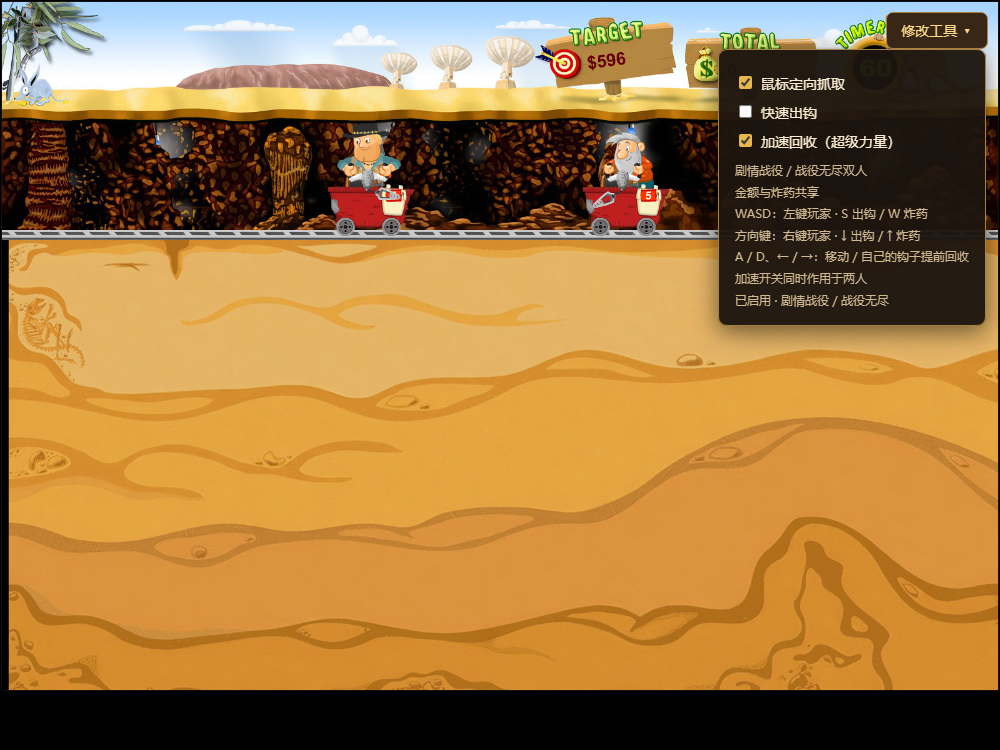
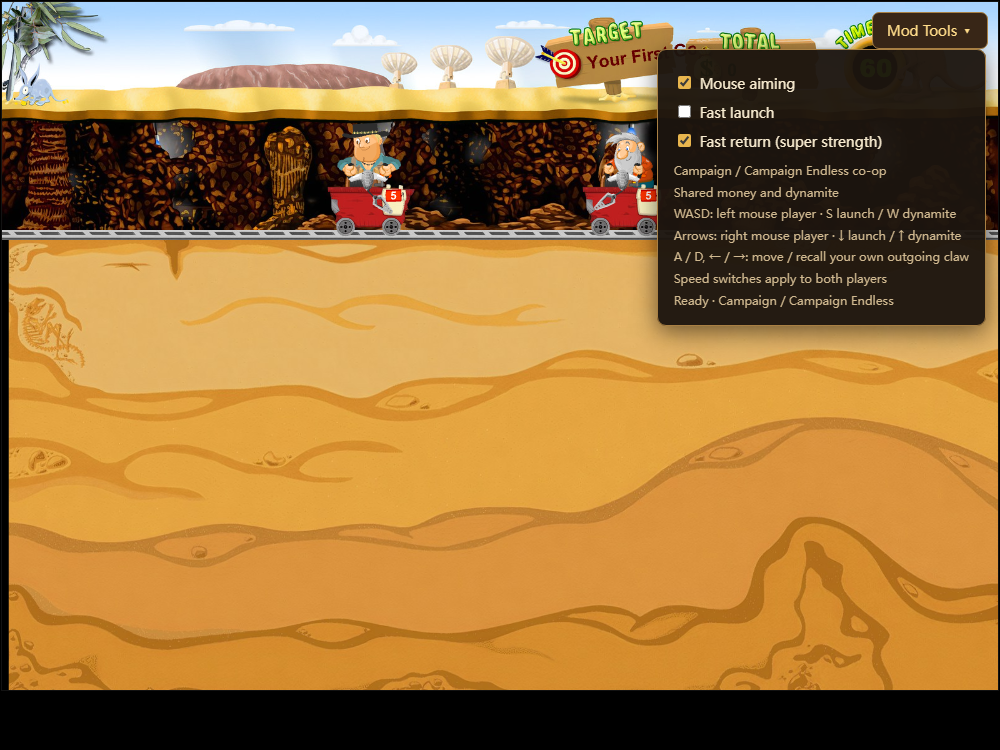
Localize modifier panel to game Chinese or English in v0.2.1

Changed region(s): [[0.589, 0.0613, 0.961, 0.46], [0.868, 0.0, 0.961, 0.0613], [0.372, 0.2453, 0.403, 0.276]]

diff --git a/mod-tools/vegas-panel.js b/mod-tools/vegas-panel.js
@@ -4,21 +4,48 @@
   const key='vegas-campaign-coop-v1';
   let settings={mouse:true,out:false,back:false};
   try { settings={...settings,...JSON.parse(localStorage.getItem(key)||'{}')}; } catch {}
+  // The original Vegas host passes the selected game language as ?lang=.
+  // Follow that value rather than the operating-system/browser language.
+  const translations={
+    en:{title:'Mod Tools ▾',mouse:'Mouse aiming',out:'Fast launch',back:'Fast return (super strength)',
+      help:'Campaign / Campaign Endless co-op\nShared money and dynamite\nWASD: left mouse player · S launch / W dynamite\nArrows: right mouse player · ↓ launch / ↑ dynamite\nA / D, ← / →: move / recall your own outgoing claw\nSpeed switches apply to both players',
+      waiting:'Waiting for game…',ready:'Ready · Campaign / Campaign Endless'},
+    zh:{title:'修改工具 ▾',mouse:'鼠标定向抓取',out:'快速出钩',back:'加速回收（超级力量）',
+      help:'剧情战役／战役无尽双人\n金额与炸药共享\nWASD：左键玩家 · S 出钩 / W 炸药\n方向键：右键玩家 · ↓ 出钩 / ↑ 炸药\nA / D、← / →：移动／自己的钩子提前回收\n加速开关同时作用于两人',
+      waiting:'等待游戏加载…',ready:'已启用 · 剧情战役／战役无尽'}
+  };
+  function gameLanguage(){
+    const lang=(new URLSearchParams(location.search).get('lang')||'en').toLowerCase();
+    return /^zh(?:-|$)/.test(lang)?'zh':'en';
+  }
   const style=document.createElement('style');
   style.textContent=`#gm-mod{position:fixed;right:12px;top:12px;z-index:2147483647;font:14px "Microsoft YaHei",sans-serif;color:#f9ecd1;user-select:none}#gm-mod button{background:#382617;color:#ffdc8a;border:1px solid #a98044;border-radius:7px;padding:8px 14px;cursor:pointer;font:inherit;float:right}#gm-mod fieldset{clear:both;background:rgba(28,21,15,.96);border:1px solid #a98044;border-radius:9px;padding:14px 16px;min-width:218px;margin-top:6px;box-shadow:0 6px 24px #0008}#gm-mod label{display:block;margin:9px 0;cursor:pointer}#gm-mod input{accent-color:#e9b64e;margin-right:9px}#gm-mod small{display:block;color:#d0b990;font-size:12px;line-height:1.8}#gm-mod [hidden]{display:none}`;
   document.head.append(style);
   const panel=document.createElement('section');panel.id='gm-mod';
-  panel.innerHTML='<button type="button" aria-expanded="false">修改工具 ▾</button><fieldset hidden><label><input type="checkbox" data-key="mouse">鼠标定向抓取</label><label><input type="checkbox" data-key="out">快速出钩</label><label><input type="checkbox" data-key="back">加速回收（超级力量）</label><small>剧情战役／战役无尽双人<br>金额与炸药共享<br>WASD：左键玩家 · S 出钩 / W 炸药<br>方向键：右键玩家 · ↓ 出钩 / ↑ 炸药<br>A / D、← / →：移动／自己的钩子提前回收<br>加速开关同时作用于两人</small><small id="gm-mod-status">等待游戏加载…</small></fieldset>';
+  panel.innerHTML='<button type="button" aria-expanded="false" data-text="title"></button><fieldset hidden><label><input type="checkbox" data-key="mouse"><span data-text="mouse"></span></label><label><input type="checkbox" data-key="out"><span data-text="out"></span></label><label><input type="checkbox" data-key="back"><span data-text="back"></span></label><small data-text="help" style="white-space:pre-line;max-width:340px"></small><small id="gm-mod-status" role="status"></small></fieldset>';
   document.body.append(panel);
   const button=panel.querySelector('button'),body=panel.querySelector('fieldset');
+  let connected=false,renderedLanguage='',renderedConnected;
+  function renderLanguage(){
+    const language=gameLanguage();
+    if(language===renderedLanguage&&connected===renderedConnected)return;
+    const strings=translations[language];
+    for(const el of panel.querySelectorAll('[data-text]'))el.textContent=strings[el.dataset.text];
+    panel.querySelector('#gm-mod-status').textContent=connected?strings.ready:strings.waiting;
+    panel.lang=language==='zh'?'zh-CN':language;
+    body.setAttribute('aria-label',strings.title.replace(' ▾',''));
+    renderedLanguage=language;renderedConnected=connected;
+  }
+  renderLanguage();
+  window.addEventListener('popstate',renderLanguage);
   button.onclick=()=>{body.hidden=!body.hidden;button.setAttribute('aria-expanded',String(!body.hidden));};
   function apply(){
     window.dispatchEvent(new MessageEvent('message',{data:{type:'gmvegas-in',t:'clickfire',on:false}}));
     const p=document.querySelector('ruffle-player');
-    try {if(p?.ruffle().callExternalInterface('gmSetModifiers',settings.mouse,settings.out,settings.back)===true){
-      panel.querySelector('#gm-mod-status').textContent='已启用 · 剧情战役／战役无尽';return true;
-    }} catch {}
-    return false;
+    connected=false;
+    try {connected=p?.ruffle().callExternalInterface('gmSetModifiers',settings.mouse,settings.out,settings.back)===true;} catch {}
+    renderLanguage();
+    return connected;
   }
   for(const el of panel.querySelectorAll('input')){
     el.checked=!!settings[el.dataset.key];

diff --git a/mod-tools/export_portable.py b/mod-tools/export_portable.py
@@ -57,9 +57,9 @@ def main():
         if op['kind']=='copy':reconstructed.extend(original[op['offset']:op['offset']+n])
         else:reconstructed.extend(literals[literal_offset:literal_offset+n]);literal_offset+=n
     assert reconstructed==updated and literal_offset==len(literals)
-    name='GoldMiner-Vegas-Coop-v0.2.0';dest=args.output/name;dest.mkdir(parents=True,exist_ok=True)
+    name='GoldMiner-Vegas-Coop-v0.2.1';dest=args.output/name;dest.mkdir(parents=True,exist_ok=True)
     payload=dest/'payload.gz';payload.write_bytes(gzip.compress(bytes(literals),compresslevel=9,mtime=0))
-    manifest={'format':'goldminer-vegas-delta-v1','modVersion':'0.2.0','game':'Gold Miner: Party Rush',
+    manifest={'format':'goldminer-vegas-delta-v1','modVersion':'0.2.1','game':'Gold Miner: Party Rush',
       'steamAppId':4815320,'steamBuildId':'26941259','gameVersion':'0.6.5','targetFile':'resources/vegas/vegas.pack',
       'source':{'size':len(original),'sha256':sha(args.source)},'target':{'size':len(updated),'sha256':sha(args.target)},
       'payload':{'sha256':sha(payload),'uncompressedSize':len(literals)},'modifiedEntries':changed,'operations':operations}

diff --git a/docs/DEVELOPMENT.md b/docs/DEVELOPMENT.md
@@ -30,7 +30,7 @@ Use the verified original pack, not a modded pack, as the source. The repacker l
 $vegasOriginal = 'D:\SteamLibrary\steamapps\common\Gold Miner Together\resources\vegas\vegas.pack.pre-campaign-coop'
 node mod-tools/pack_vegas.cjs $vegasOriginal mod-work/vegas-coop.pack
 python mod-tools/export_portable.py --source $vegasOriginal --target mod-work/vegas-coop.pack --pack-module mod-work/app/vegas-pack.js --output dist
-python mod-tools/test_portable.py --package dist/GoldMiner-Vegas-Coop-v0.2.0 --original $vegasOriginal
+python mod-tools/test_portable.py --package dist/GoldMiner-Vegas-Coop-v0.2.1 --original $vegasOriginal
 ```
 
 The exporter compares encrypted entry ranges, copying all unchanged ciphertext from the original and carrying only the changed movie and pack header/table. It independently reconstructs and compares every byte before emitting the delta. The portable installer verifies source, payload, generated output and backup hashes; replacement happens only after successful validation.
@@ -40,7 +40,7 @@ The exporter compares encrypted entry ranges, copying all unchanged ciphertext f
 Keep game assets, extracted launchers, decoders, keys, saves, generated packs and test profiles out of Git. The release contains only the delta, manifest, installer and user instructions. Review `git ls-files`, then audit both tracked files and decompressed release data:
 
 ```powershell
-node mod-tools/audit_publication.cjs mod-work/app/vegas-pack.js dist/GoldMiner-Vegas-Coop-v0.2.0/payload.gz
+node mod-tools/audit_publication.cjs mod-work/app/vegas-pack.js dist/GoldMiner-Vegas-Coop-v0.2.1/payload.gz
 ```
 
 Do not copy the ignored `mod-work/` directory into a release. Update the version, compatibility fingerprint and English/Chinese documentation together for a new release. Automated scene entry and behavior tests do not replace a full campaign playthrough or testing on another physical computer.

diff --git a/README.md b/README.md
@@ -6,6 +6,7 @@ Local two-player co-op and optional modifiers for **Arcade → Campaign** and **
 
 ## 1. Features
 
+- Modifier panel follows Chinese/English game language; all other languages use English.
 - Two independently controlled miners in the Vegas campaign and endless campaign.
 - Left/right mouse aiming, fast launch and fast return in a collapsible top-right panel.
 - Independent early recall and dynamite, including when fast return is enabled.
@@ -26,13 +27,13 @@ Local two-player co-op and optional modifiers for **Arcade → Campaign** and **
 | Game version | `0.6.5` |
 | Original file | `resources/vegas/vegas.pack` |
[1 lines of base64/hex data omitted]
-| Mod version | `0.2.0` |
+| Mod version | `0.2.1` |
 
 The installer requires an exact matching original pack. It refuses other builds and other modifications. This project is separate from [Gold Miner Classic Edition co-op](https://github.com/yuGAN6/gold-miner-solo-coop).
 
 ## 4. Install and uninstall
 
-1. Download `GoldMiner-Vegas-Coop-v0.2.0.zip` from [Releases](https://github.com/yuGAN6/gold-miner-vegas-coop/releases).
+1. Download `GoldMiner-Vegas-Coop-v0.2.1.zip` from [Releases](https://github.com/yuGAN6/gold-miner-vegas-coop/releases).
 2. Close the game and extract the entire archive.
 3. Run `Install.cmd`; select the game folder if asked. Alternatively, drag the folder containing `Gold Miner Party Rush.exe` onto `Install.cmd`.
 4. Launch normally from Steam and select **Arcade → Campaign** or **Campaign Endless**.

diff --git a/docs/RELEASE-v0.2.1.md b/docs/RELEASE-v0.2.1.md
@@ -1,0 +1,16 @@
+# Vegas Co-op v0.2.1
+
+The modifier panel now follows the selected game language:
+
+- Chinese game language: Chinese panel text.
+- English and all other game languages: English panel text.
+- Button, options, help text, accessibility label and connection status are translated together.
+- In-page language changes preserve modifier switches and the expanded/collapsed state. Saved switches also survive a language reload.
+
+Campaign and Campaign Endless co-op, independent early recall, dynamite, mouse aiming and speed modifiers remain available.
+
+**Requires Steam app 4815320, build 26941259, game version 0.6.5 and an exact matching original Vegas pack.** Close the game. If an older release is installed, uninstall it first, then extract the complete new ZIP and run `Install.cmd`. No Python, Java, Node.js or decompiler is required. Saves are not modified.
+
+The original Vegas page and bundled Ruffle were used for language/fallback tests and both modes' behavior and scene-entry regression checks. The portable installer was tested on isolated copies. A full playthrough and another physical PC remain unverified.
+
+[English instructions](https://github.com/yuGAN6/gold-miner-vegas-coop#readme) · [中文说明](https://github.com/yuGAN6/gold-miner-vegas-coop/blob/main/README.zh-CN.md).

diff --git a/README.zh-CN.md b/README.zh-CN.md
@@ -6,6 +6,7 @@
 
 ## 1. 功能
 
+- 修改栏随游戏语言切换中文／英文，其他语言默认英文。
 - Vegas 剧情战役和战役无尽中加入两名独立控制的矿工。
 - 右上角折叠修改栏：左右鼠标定向、快速出钩、加速回收。
 - 独立提前回收和炸药操作，支持开启加速回收时使用炸药。
@@ -26,13 +27,13 @@
 | 游戏版本 | `0.6.5` |
 | 原始文件 | `resources/vegas/vegas.pack` |
[1 lines of base64/hex data omitted]
-| Mod 版本 | `0.2.0` |
+| Mod 版本 | `0.2.1` |
 
 安装器要求原包完全匹配，拒绝其他版本及其他修改。这是独立于[黄金矿工经典版双人 Mod](https://github.com/yuGAN6/gold-miner-solo-coop) 的项目。
 
 ## 4. 安装与卸载
 
-1. 从 [Releases](https://github.com/yuGAN6/gold-miner-vegas-coop/releases) 下载 `GoldMiner-Vegas-Coop-v0.2.0.zip`。
+1. 从 [Releases](https://github.com/yuGAN6/gold-miner-vegas-coop/releases) 下载 `GoldMiner-Vegas-Coop-v0.2.1.zip`。
 2. 关闭游戏，完整解压压缩包。
 3. 运行 `Install.cmd`，必要时选择游戏文件夹。也可以把包含 `Gold Miner Party Rush.exe` 的文件夹拖到 `Install.cmd` 上。
 4. 照常从 Steam 启动，选择**街机 → 战役模式**或**战役无尽**。
